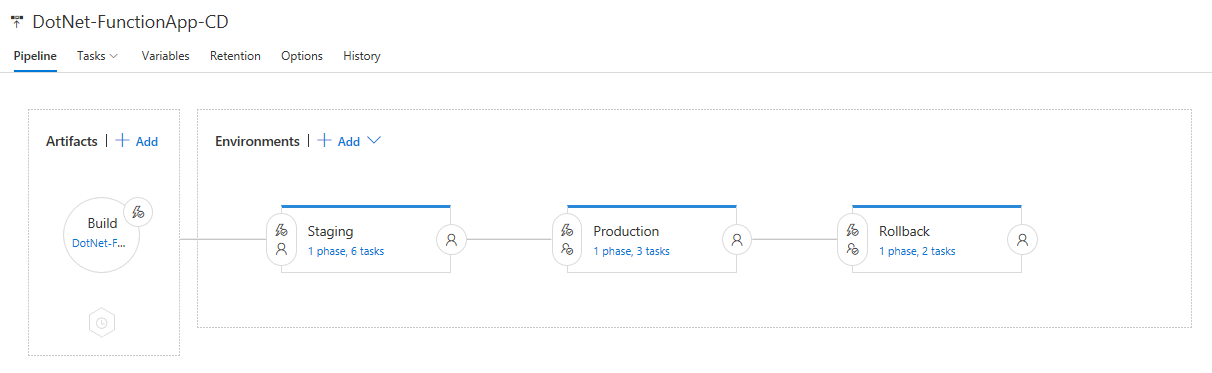
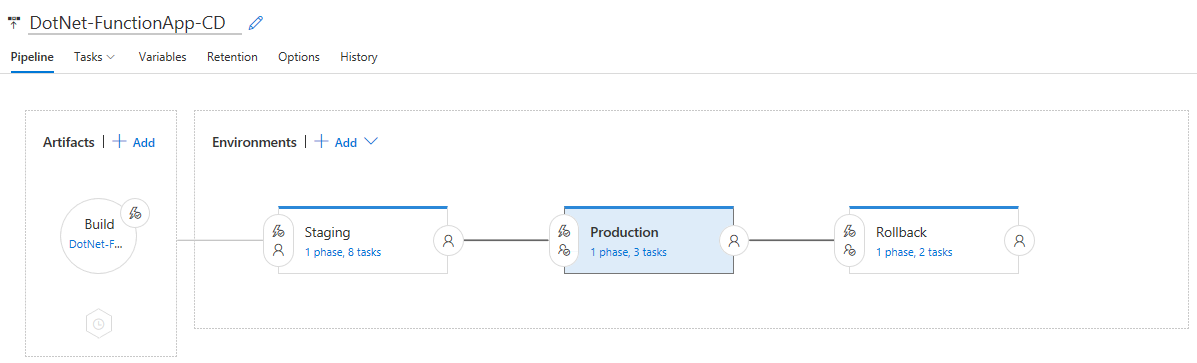
Setup ResourceGroup policies.

diff --git a/docs/DotNet-FunctionApp-CD.md b/docs/DotNet-FunctionApp-CD.md
@@ -53,6 +53,22 @@ TODO
 
 ### Tasks 
 
+- Set Resource Group ResourceTypes policy
+  - Type = Azure PowerShell
+  - Version = 1.*
+  - Azure Connection Type = Azure Resource Manager
+  - Azure Subscription = set appropriate
+  - Script Type = Script File Path
+  - Script Path = $(System.DefaultWorkingDirectory)/DotNet-FunctionApp-CI/scripts/[AddResourceGroupAllowedResourceTypesPolicy.ps1](../infra/scripts/AddResourceGroupAllowedResourceTypesPolicy.ps1)
+  - Script Arguments = -ResourceGroupName $(ResourceGroupName)
+- Set Resource Group ResourceLocations policy
+  - Type = Azure PowerShell
+  - Version = 1.*
+  - Azure Connection Type = Azure Resource Manager
+  - Azure Subscription = set appropriate
+  - Script Type = Script File Path
+  - Script Path = $(System.DefaultWorkingDirectory)/DotNet-FunctionApp-CI/scripts/[AddResourceGroupAllowedResourceLocationsPolicy.ps1](../infra/scripts/AddResourceGroupAllowedResourceLocationsPolicy.ps1)
+  - Script Arguments = -ResourceGroupName $(ResourceGroupName)
 - Ensure Production Function App exists
   - Type = Azure Resource Group Deployment
   - Version = 2.*
@@ -143,7 +159,7 @@ TODO
   - Azure Connection Type = Azure Resource Manager
   - Azure Subscription = set appropriate
   - Script Type = Script File Path
-  - Script Path = $(System.DefaultWorkingDirectory)/DotNet-FunctionApp-CI/scripts/[AddResourceGroupLock.ps1](../infra/scripts/AddResourceGroupLock.ps1)
+  - Script Path = $(System.DefaultWorkingDirectory)/DotNet-FunctionApp-CI/scripts/[AddResourceGroupDoNotDeleteLock.ps1](../infra/scripts/AddResourceGroupDoNotDeleteLock.ps1)
   - Script Arguments = -ResourceGroupName $(ResourceGroupName)
 - Check Production URL
   - Type = [Check URL Status](https://marketplace.visualstudio.com/items?itemName=saeidbabaei.checkUrl)

diff --git a/README.md b/README.md
@@ -12,8 +12,10 @@ TOC
 
 # History of changes
 
-- August 2017 - Convert MSTest projects on to xUnit - PR #1
-- July 2017 - Initial setup.
+- August 2017
+    - Convert MSTest projects on to xUnit - [PR#1](https://github.com/mathieu-benoit/dot-net-on-azure-function-app/pull/1)
+- July 2017
+    - Initial setup.
 
 # Overview
 
